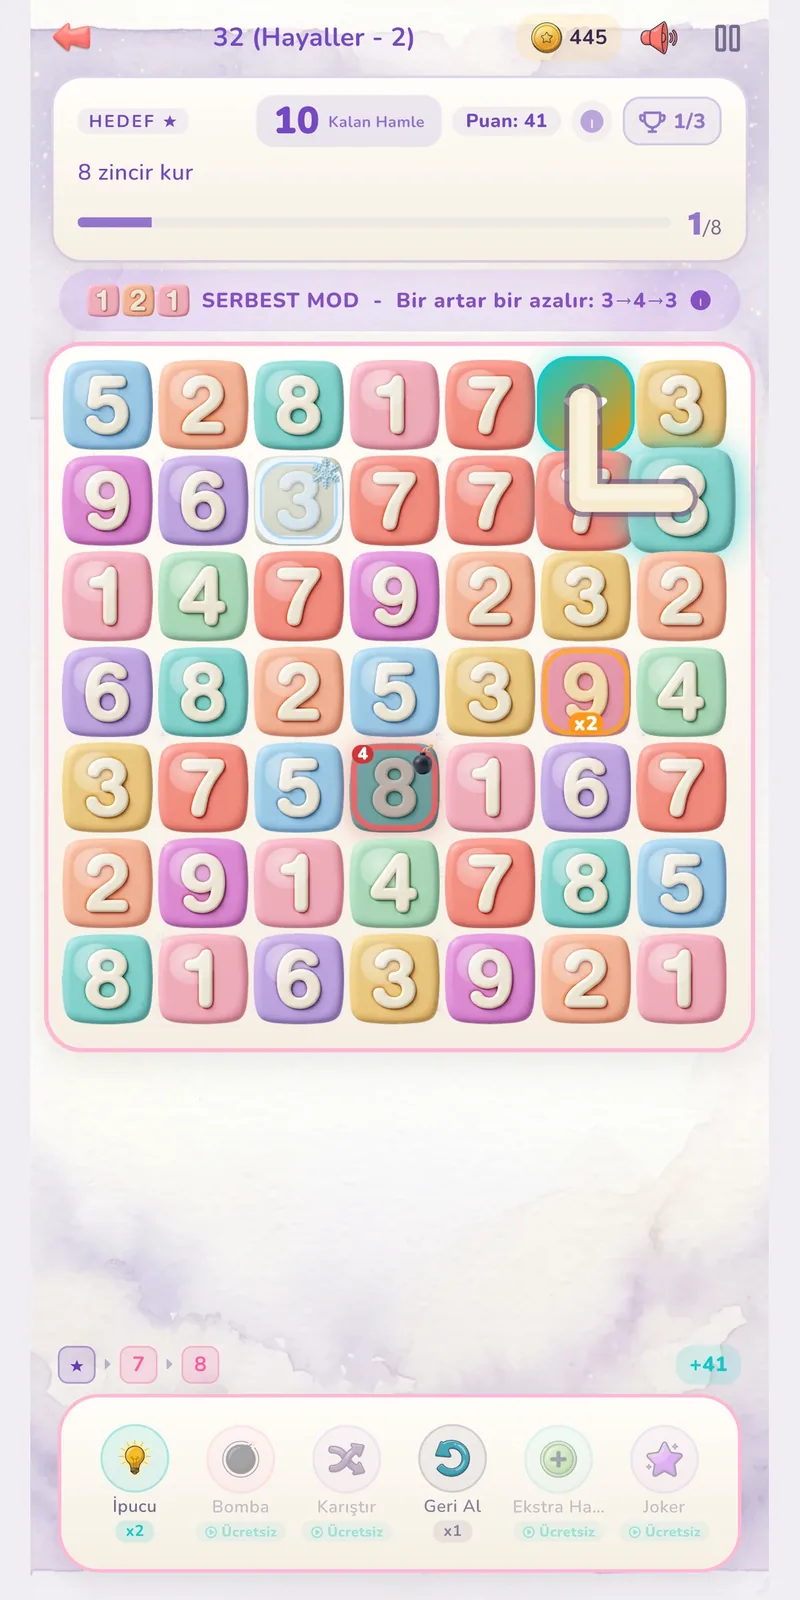
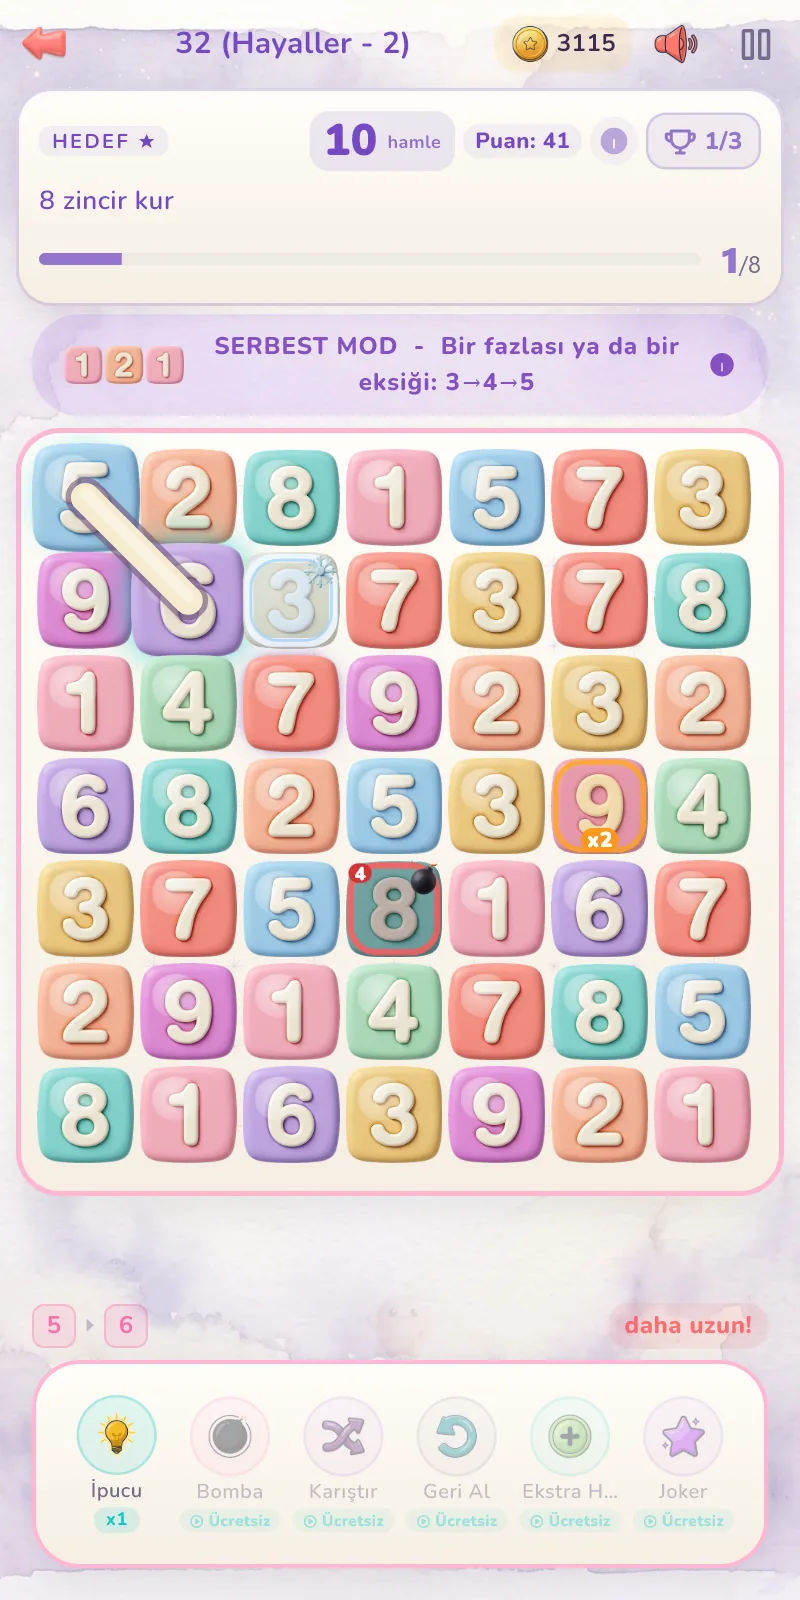
Follow the system dark mode, drop the package name, refresh screenshots
Dark colours come from the app's own ThemeColors.dark. Text on the pink
fill uses the app's onPrimary (#53283C, 5.03:1) instead of white (2.41:1).

The screenshots from 2026-08-19 are recaptured in Turkish from a release
build of the current game, and two alt texts now describe what the frames
actually show. The footer no longer shows com.bardino.numberchain.

diff --git a/css/style.css b/css/style.css
@@ -25,6 +25,47 @@
   --golge-o: 0 8px 24px rgba(46, 44, 122, .12);
   --golge-b: 0 18px 48px rgba(46, 44, 122, .18);
   --r:       20px;
+
+  /* Lacivert hem baslik rengi hem dugme/bant zemini. Koyu temada baslik
+     acilmali, zeminler kalmali; o yuzden baslik ayri bir ad. */
+  --baslik:  var(--lacivert);
+  --ust:     rgba(253, 246, 240, .88);
+  --rozet-z: rgba(20, 200, 200, .14);
+  --rozet-y: #0E8F8F;
+  --dolgu-y: #fff;
+  color-scheme: light dark;
+}
+
+/* Koyu tema: sistem tercihine uyuyor, bardino.app ile ayni kural. Renkler
+   uygulamanin kendi koyu temasindan (lib/theme/app_colors.dart,
+   ThemeColors.dark): zemin #241640, yuzey #3A2A5E, metin #F5ECFA / #C4B8D8,
+   pembe #FF7AB8, turkuaz #3FE0E0, sari #FFD96E. Pembe dolgunun uzerindeki
+   yazi beyaz degil oyunun onPrimary'si (#53283C): beyaz o pembede 2.41,
+   onPrimary 5.03. */
+@media (prefers-color-scheme: dark) {
+  :root {
+    --krem:    #241640;
+    --beyaz:   #3A2A5E;
+    --pembe:   #FF7AB8;
+    --turkuaz: #3FE0E0;
+    --sari:    #FFD96E;
+    --mor:     #B57FF0;
+    --ink:     #F5ECFA;
+    --soluk:   #C4B8D8;
+    --baslik:  #F5ECFA;
+    --cizgi:   rgba(255, 255, 255, .10);
+    --golge-s: 0 2px 8px rgba(0, 0, 0, .25);
+    --golge-o: 0 8px 24px rgba(0, 0, 0, .30);
+    --golge-b: 0 18px 48px rgba(0, 0, 0, .40);
+    --ust:     rgba(36, 22, 64, .88);
+    --rozet-z: rgba(63, 224, 224, .14);
+    --rozet-y: #3FE0E0;
+    --dolgu-y: #53283C;
+  }
+  /* Lacivert dugme ve altbilgi koyu zeminde kayboluyordu; uygulamanin bir
+     ust yuzeyi (#503C82) ve izgara zemini (#1C1030) ayirt ediyor. */
+  .d-apple { background: #503C82; }
+  footer, .footer { background: #1C1030; }
 }
 
 * { box-sizing: border-box; margin: 0; padding: 0; }
@@ -53,7 +94,7 @@ a { color: var(--pembe); }
 /* ── Ust bar ─────────────────────────────────────────────────────────── */
 .ust {
   position: sticky; top: 0; z-index: 50;
-  background: rgba(253, 246, 240, .88);
+  background: var(--ust);
   backdrop-filter: blur(10px);
   border-bottom: 1px solid var(--cizgi);
 }
@@ -76,7 +117,7 @@ a { color: var(--pembe); }
   white-space: nowrap;
 }
 .dugme:hover { transform: translateY(-2px); }
-.d-play  { background: var(--pembe);    color: #fff; box-shadow: 0 6px 18px rgba(255, 91, 163, .38); }
+.d-play  { background: var(--pembe);    color: var(--dolgu-y); box-shadow: 0 6px 18px rgba(255, 91, 163, .38); }
 .d-play:hover  { box-shadow: 0 10px 26px rgba(255, 91, 163, .46); }
 .d-apple { background: var(--lacivert); color: #fff; box-shadow: 0 6px 18px rgba(46, 44, 122, .34); }
 .d-apple:hover { box-shadow: 0 10px 26px rgba(46, 44, 122, .44); }
@@ -87,13 +128,13 @@ a { color: var(--pembe); }
 .kahraman .kap { display: grid; grid-template-columns: 1.05fr .95fr; gap: 56px; align-items: center; }
 .rozet {
   display: inline-flex; align-items: center; gap: 8px;
-  background: rgba(20, 200, 200, .14); color: #0E8F8F;
+  background: var(--rozet-z); color: var(--rozet-y);
   padding: 7px 15px; border-radius: 999px;
   font-weight: 800; font-size: 14px; margin-bottom: 22px;
 }
 .kahraman h1 {
   font-size: clamp(38px, 5.4vw, 60px); font-weight: 900;
-  line-height: 1.08; letter-spacing: -.03em; color: var(--lacivert);
+  line-height: 1.08; letter-spacing: -.03em; color: var(--baslik);
 }
 .kahraman h1 em { font-style: normal; color: var(--pembe); }
 .kahraman .alt { font-size: 19px; color: var(--soluk); margin: 20px 0 30px; max-width: 33em; }
@@ -122,7 +163,7 @@ section { padding: 76px 0; }
 .beyaz-bolum { background: var(--beyaz); }
 h2 {
   font-size: clamp(28px, 3.6vw, 40px); font-weight: 900;
-  letter-spacing: -.02em; color: var(--lacivert); text-align: center;
+  letter-spacing: -.02em; color: var(--baslik); text-align: center;
 }
 .bolum-alt { text-align: center; color: var(--soluk); margin: 12px auto 44px; max-width: 40em; }
 
@@ -133,7 +174,7 @@ h2 {
   border-radius: var(--r); padding: 30px 26px; text-align: center;
 }
 .beyaz-bolum .adim { background: var(--beyaz); box-shadow: var(--golge-s); border-color: transparent; }
-.adim h3 { font-size: 20px; font-weight: 800; margin-bottom: 8px; color: var(--lacivert); }
+.adim h3 { font-size: 20px; font-weight: 800; margin-bottom: 8px; color: var(--baslik); }
 .adim p { color: var(--soluk); font-size: 15.5px; }
 /* Puan sayisi cumlenin vurgusu; soluk gri kalirsa gozden kaciyor. */
 .adim p strong { color: var(--pembe); font-weight: 900; }
@@ -159,7 +200,7 @@ h2 {
 }
 .krem-bolum .ozellik { background: var(--krem); box-shadow: none; border: 1px solid var(--cizgi); }
 .ozellik .sayi { font-size: 34px; font-weight: 900; color: var(--pembe); line-height: 1.1; }
-.ozellik h3 { font-size: 17px; font-weight: 800; margin: 6px 0 6px; color: var(--lacivert); }
+.ozellik h3 { font-size: 17px; font-weight: 800; margin: 6px 0 6px; color: var(--baslik); }
 .ozellik p { font-size: 14.5px; color: var(--soluk); }
 @media (max-width: 900px) { .ozellikler { grid-template-columns: repeat(2, 1fr); } }
 @media (max-width: 520px) { .ozellikler { grid-template-columns: 1fr; } }

diff --git a/css/legal.css b/css/legal.css
@@ -11,7 +11,7 @@
 /* ── Ust bar ─────────────────────────────────────────────────────────── */
 .navbar {
   position: sticky; top: 0; z-index: 50;
-  background: rgba(253, 246, 240, .88);
+  background: var(--ust);
   backdrop-filter: blur(10px);
   border-bottom: 1px solid var(--cizgi);
 }
@@ -33,12 +33,12 @@
 .legal-header { text-align: center; margin-bottom: 38px; }
 .section-badge {
   display: inline-flex; align-items: center; gap: 8px;
-  background: rgba(20, 200, 200, .14); color: #0E8F8F;
+  background: var(--rozet-z); color: var(--rozet-y);
   padding: 7px 15px; border-radius: 999px; font-weight: 800; font-size: 14px;
 }
 .legal-header h1 {
   font-size: clamp(30px, 4.4vw, 42px); font-weight: 900;
-  letter-spacing: -.03em; color: var(--lacivert); margin-top: 14px; line-height: 1.15;
+  letter-spacing: -.03em; color: var(--baslik); margin-top: 14px; line-height: 1.15;
 }
 .legal-updated { font-size: 14.5px; color: var(--soluk); font-weight: 700; margin-top: 8px; }
 
@@ -52,7 +52,7 @@
 .legal-section { margin-bottom: 30px; }
 .legal-section:last-child { margin-bottom: 0; }
 .legal-section h2 {
-  font-size: 20px; font-weight: 800; color: var(--lacivert); line-height: 1.3;
+  font-size: 20px; font-weight: 800; color: var(--baslik); line-height: 1.3;
   margin-bottom: 11px; padding-left: 14px; border-left: 4px solid var(--pembe);
   /* style.css'teki h2 bolum basligi ortali; hukuk metninde sola yaslanmali. */
   text-align: left;
@@ -92,7 +92,7 @@
 }
 .lang-toggle button:hover { color: var(--pembe); }
 .lang-toggle button.active {
-  background: var(--pembe); color: #fff; border-color: transparent;
+  background: var(--pembe); color: var(--dolgu-y); border-color: transparent;
   box-shadow: 0 4px 12px rgba(255, 91, 163, .34);
 }
 .lang-block { display: none; }
@@ -107,7 +107,7 @@
 .step-del::before {
   counter-increment: dstep; content: counter(dstep);
   position: absolute; left: 16px; top: 50%; transform: translateY(-50%);
-  width: 30px; height: 30px; background: var(--pembe); color: #fff;
+  width: 30px; height: 30px; background: var(--pembe); color: var(--dolgu-y);
   border-radius: 50%; display: grid; place-items: center; font-weight: 900; font-size: 15px;
 }
 

diff --git a/index.html b/index.html
@@ -160,7 +160,7 @@
                 <figcaption>Zinciri sürükleyerek kur</figcaption>
             </figure>
             <figure>
-                <img src="assets/shots/03_star.webp" alt="Bölüm sonu yıldız ekranı" width="800" height="1600" loading="lazy">
+                <img src="assets/shots/03_star.webp" alt="Bölüm sırasında kazanılan ilk yıldız" width="800" height="1600" loading="lazy">
                 <figcaption>Üç bağımsız yıldız hedefi</figcaption>
             </figure>
             <figure>
@@ -168,7 +168,7 @@
                 <figcaption>Bölümler arasında ilerle</figcaption>
             </figure>
             <figure>
-                <img src="assets/shots/06_world.webp" alt="Yeni dünya açılış ekranı" width="800" height="1600" loading="lazy">
+                <img src="assets/shots/06_world.webp" alt="Yanardağ dünyasında lav yükselirken kurulan zincir" width="800" height="1600" loading="lazy">
                 <figcaption>Her dünyanın kendi havası var</figcaption>
             </figure>
         </div>
@@ -218,7 +218,7 @@
         </div>
     </div>
     <div class="kap f-alt">
-        &copy; 2026 Bardino Technology &middot; com.bardino.numberchain
+        &copy; 2026 Bardino Technology
     </div>
 </footer>
 

diff --git a/404.html b/404.html
@@ -29,6 +29,15 @@
     padding: 14px 28px; border-radius: 999px; display: inline-block; text-decoration: none;
     box-shadow: 0 6px 18px rgba(255,91,163,.38);
   }
+  :root { color-scheme: light dark; }
+  /* Koyu tema: style.css ile ayni degerler (uygulamanin ThemeColors.dark). */
+  @media (prefers-color-scheme: dark) {
+    body { background: #241640; color: #F5ECFA; }
+    h1 { color: #F5ECFA; }
+    p { color: #C4B8D8; }
+    .kopuk { background: #3A2A5E; color: #9385AE; }
+    a { background: #FF7AB8; color: #53283C; }
+  }
 </style>
 </head>
 <body>
